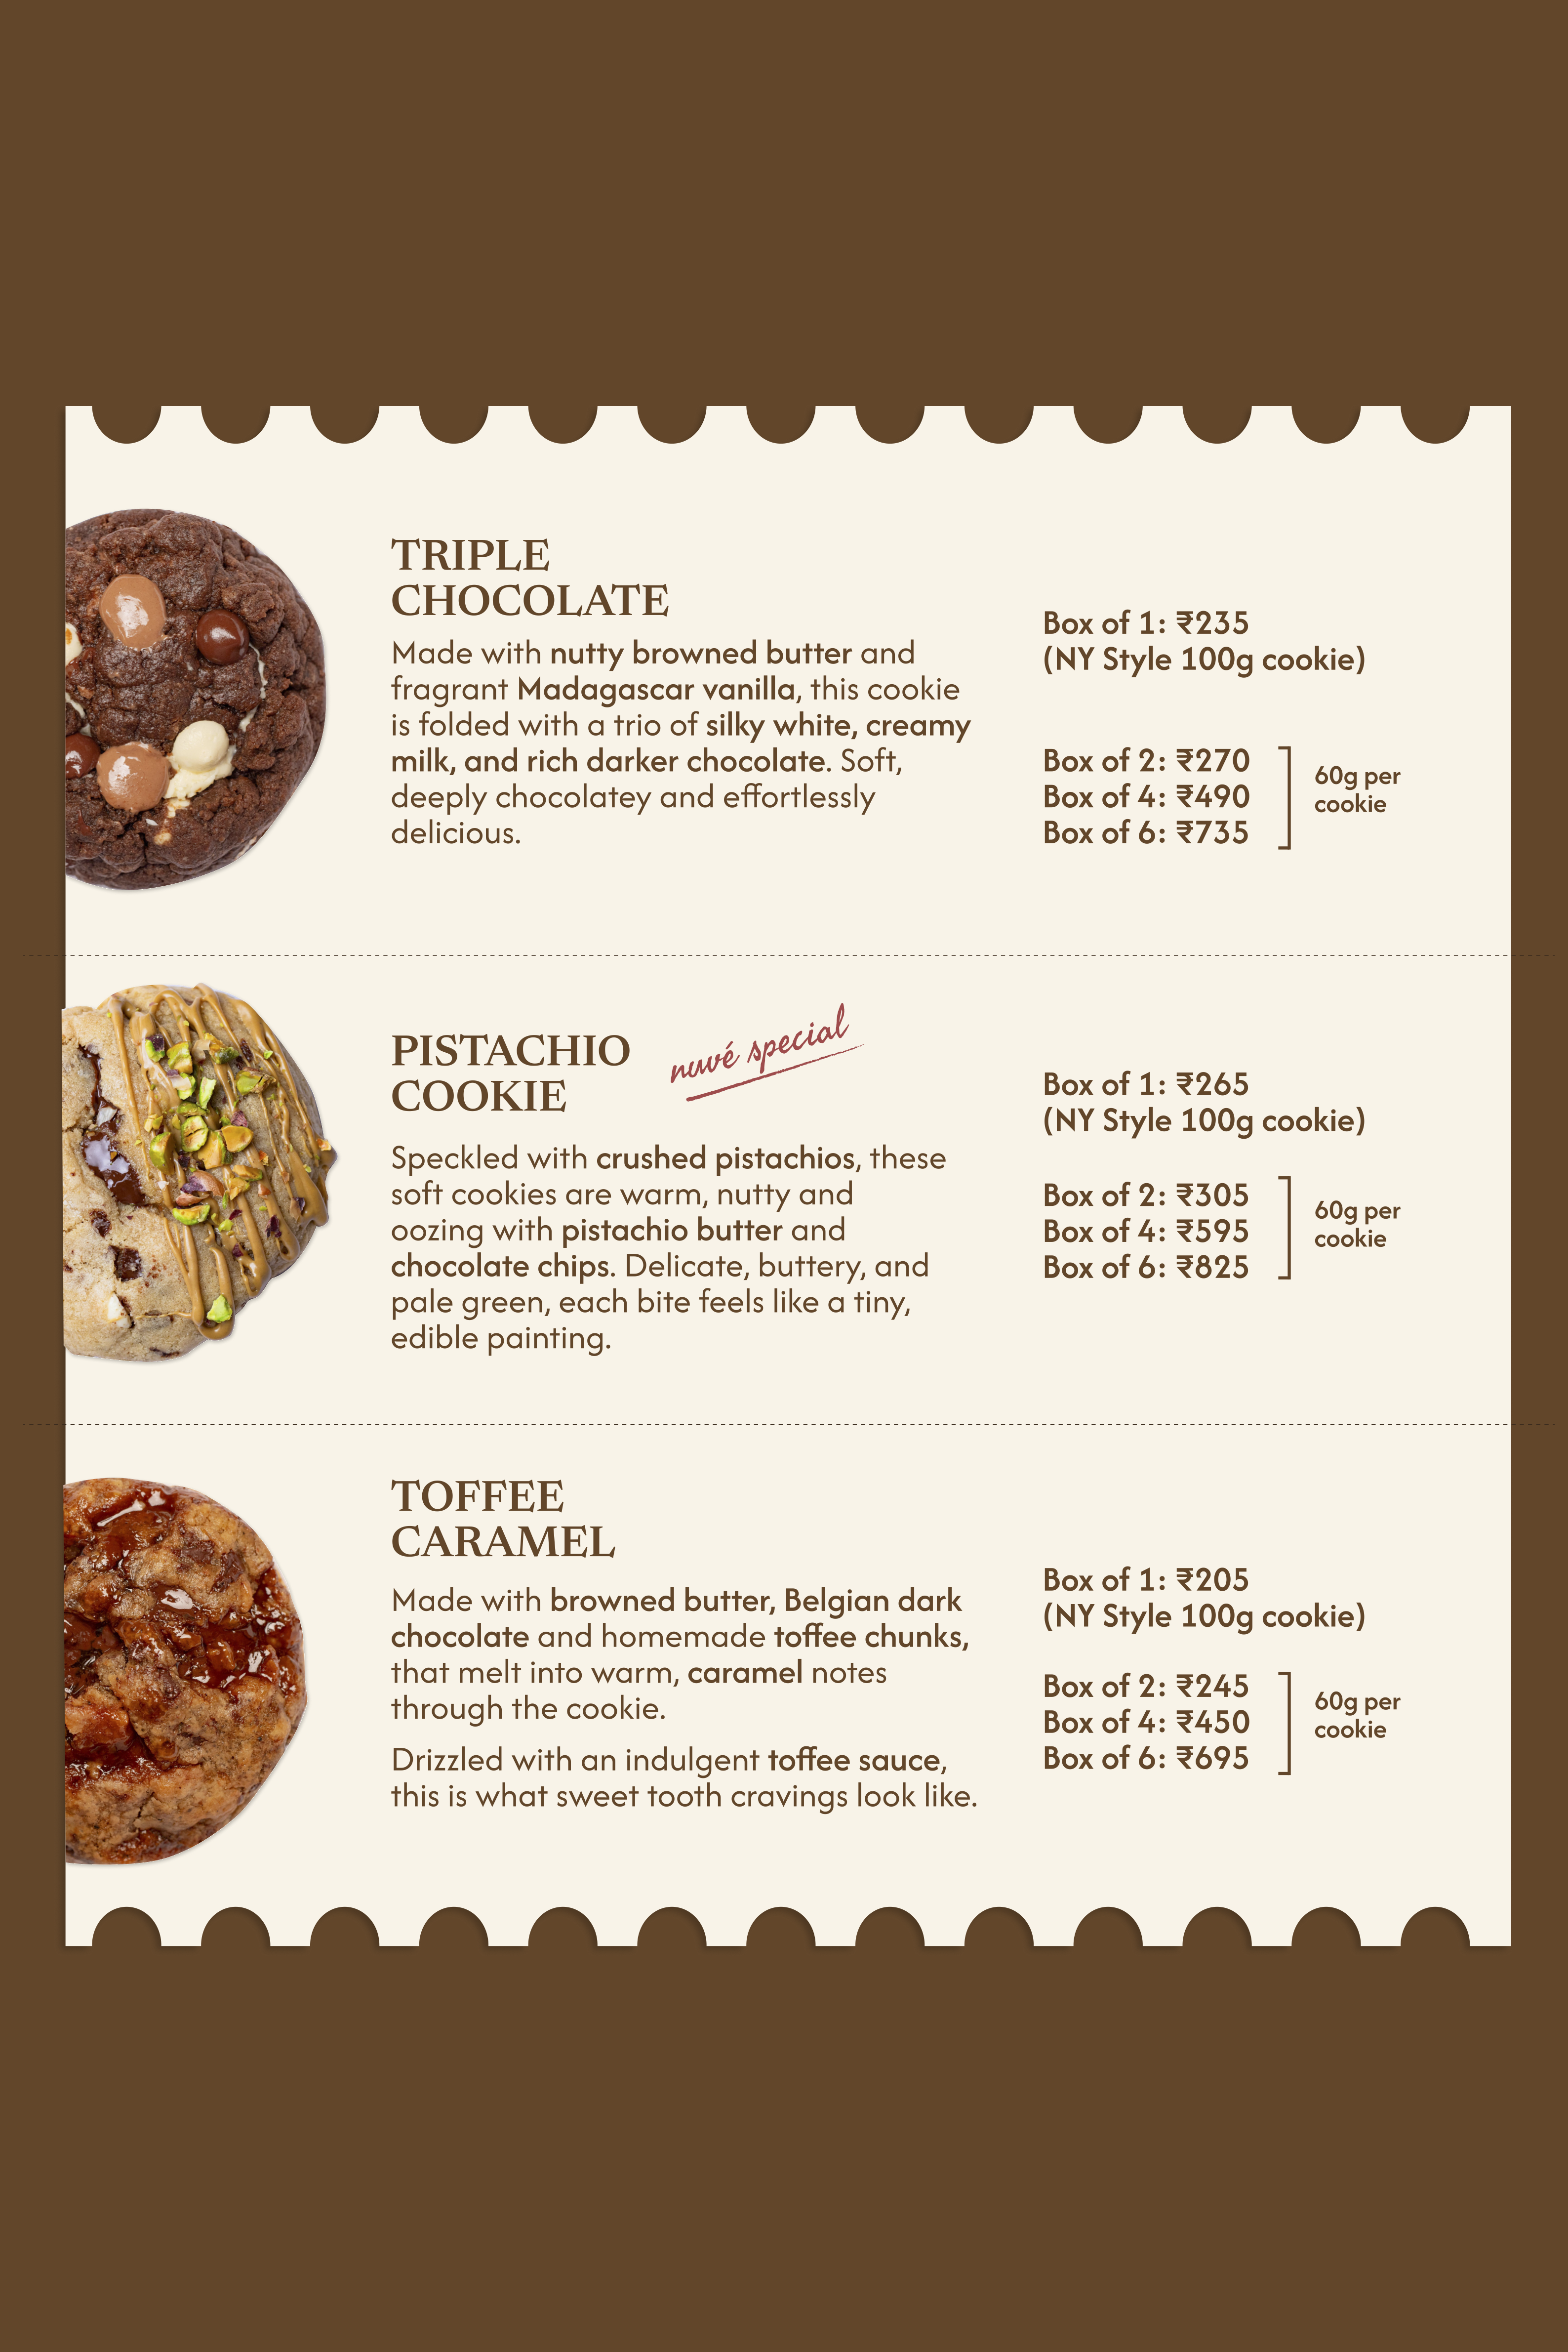
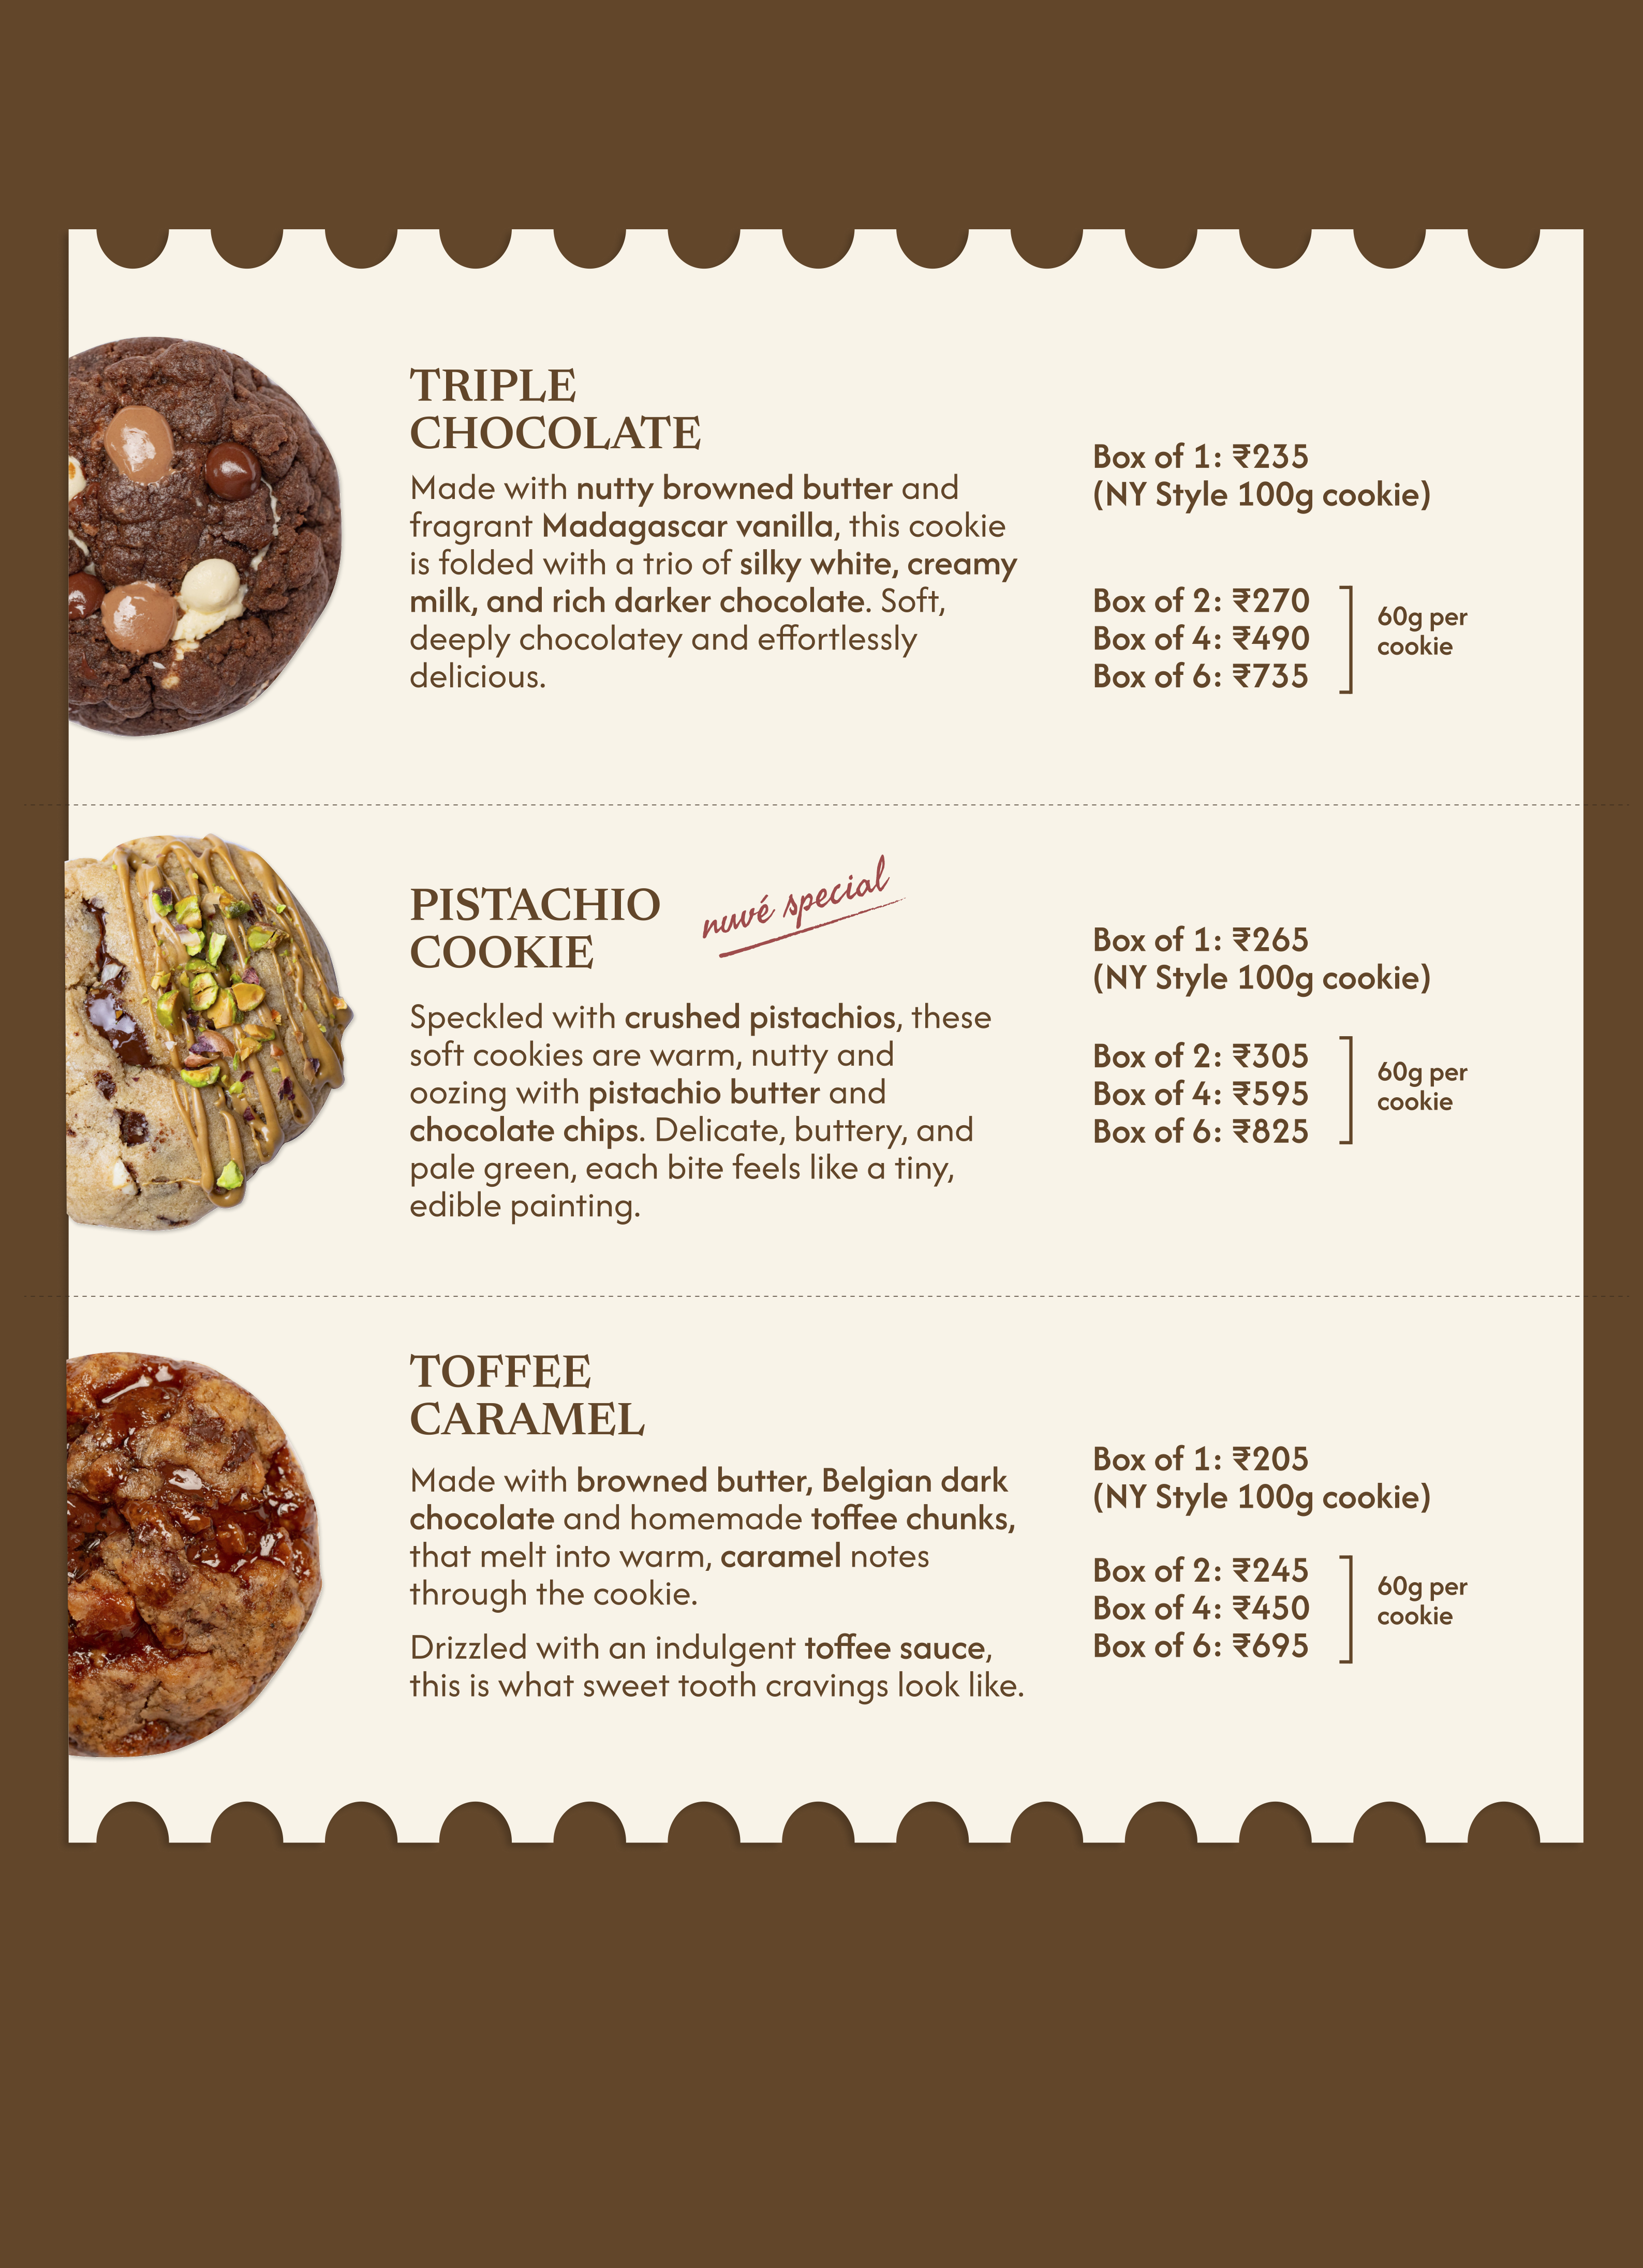
Cropped Original Menu Images

Changed region(s): [[0.0312, 0.0931, 0.9666, 0.838], [0.6548, 0.4035, 0.9043, 0.5586], [0.4677, 0.3724, 0.5301, 0.4035]]

diff --git a/index.html b/index.html
@@ -195,9 +195,9 @@
         <p class="footer-tagline">Comfort • Craft • Community</p>
       </div>
 
-      <!-- Right: Follow Us -->
+      <!-- Right: Socials -->
       <div class="footer-section footer-right">
-        <h3 class="footer-title">Follow Us</h3>
+        <h3 class="footer-title">Socials</h3>
         <a href="https://instagram.com/nuve.blr" target="_blank" rel="noopener noreferrer" class="instagram-btn flex items-center justify-center w-12 h-12 mx-auto rounded-full bg-gradient-to-r from-purple-500 to-pink-500 hover:scale-110 transition-transform">
           <i class="fa-brands fa-instagram text-white text-xl"></i>
         </a>